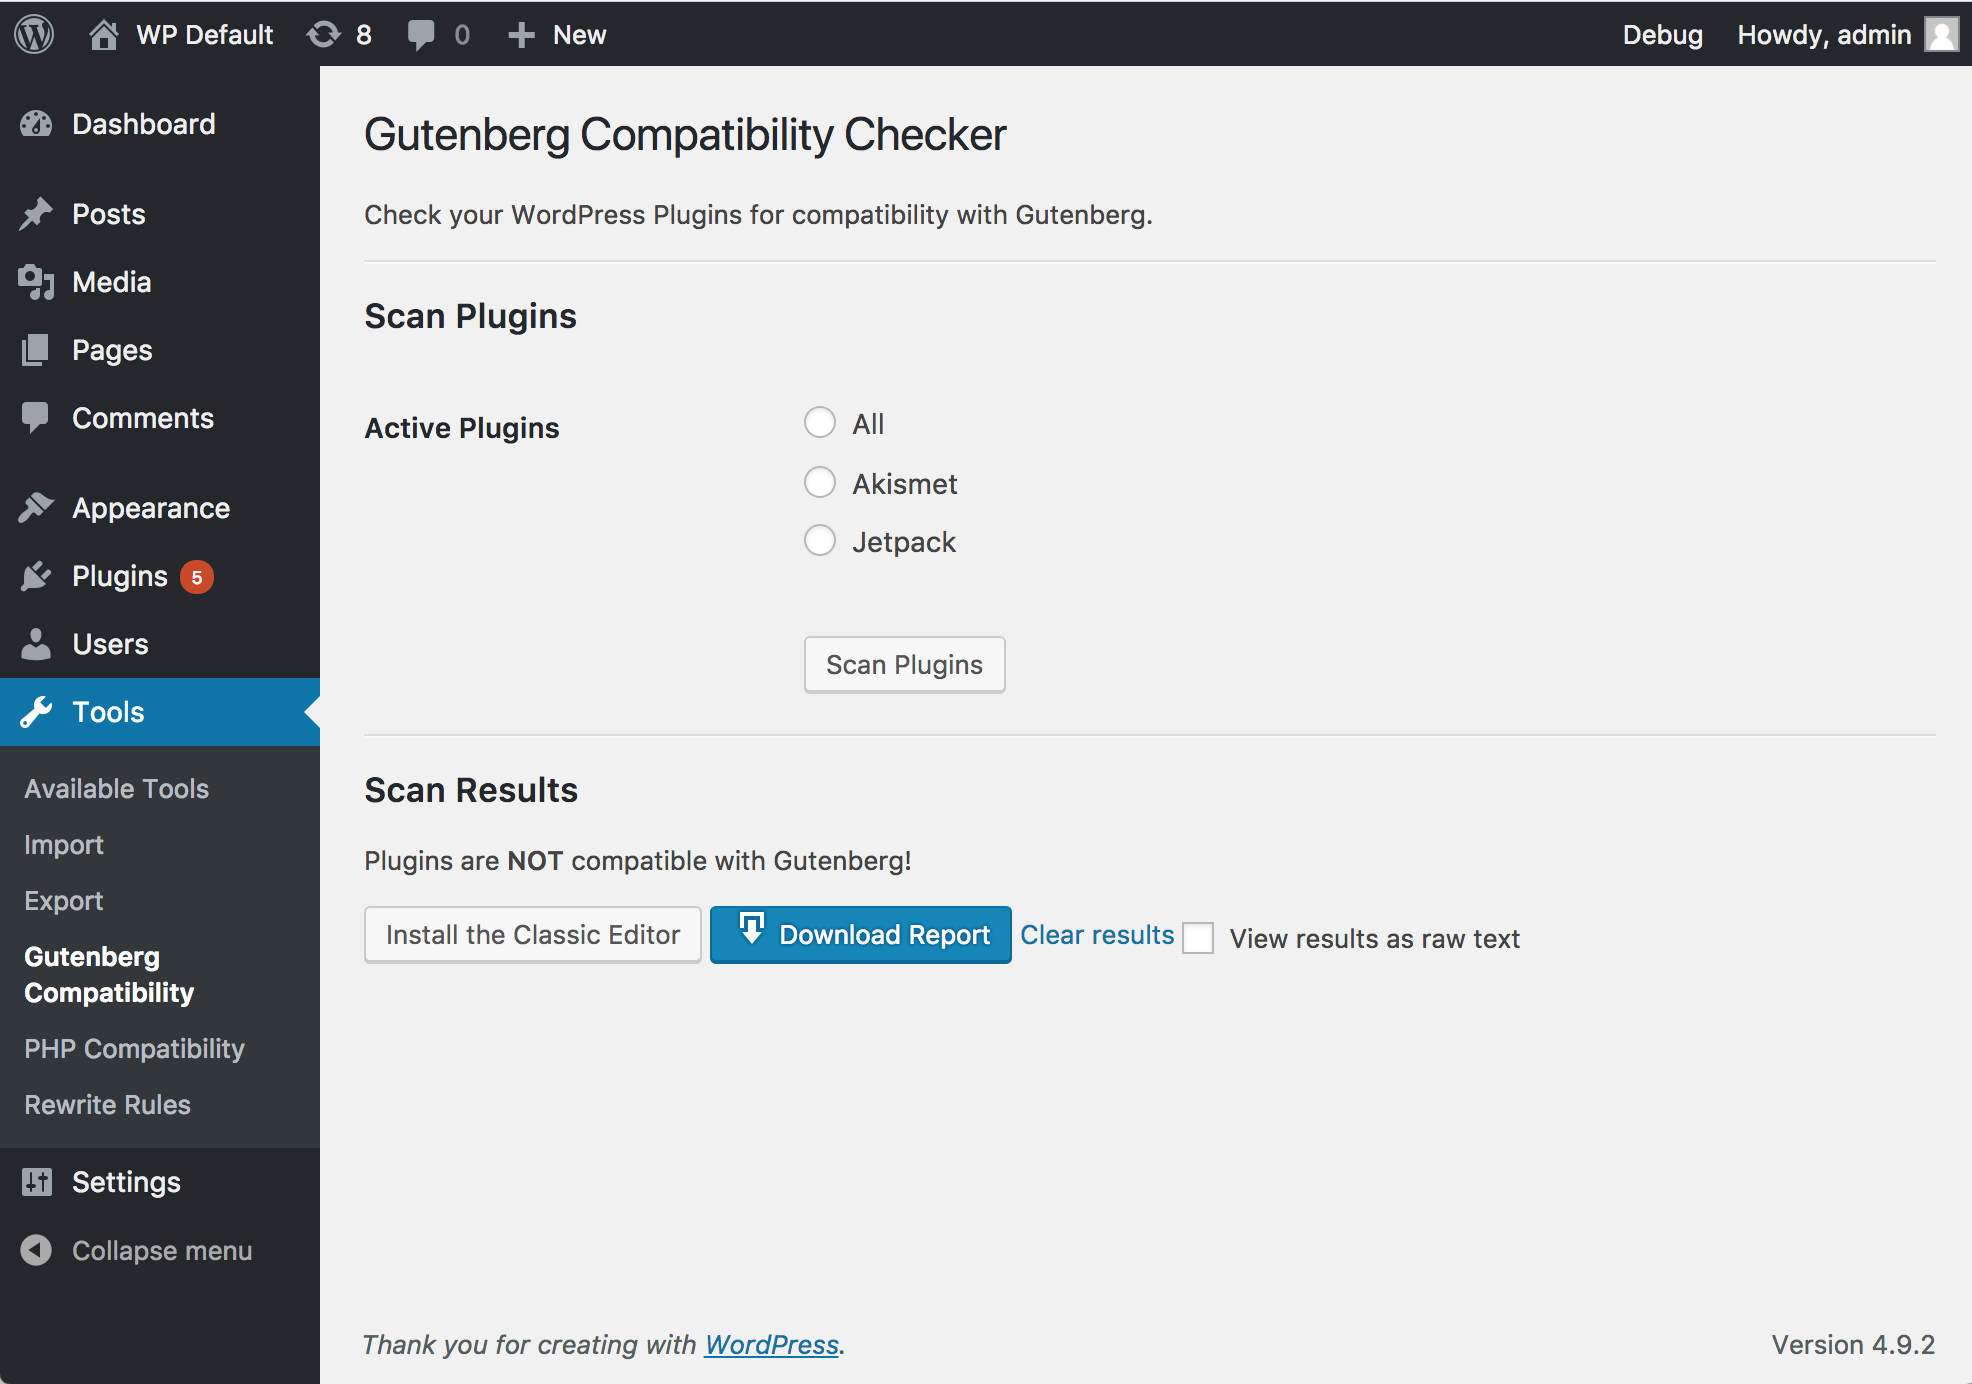
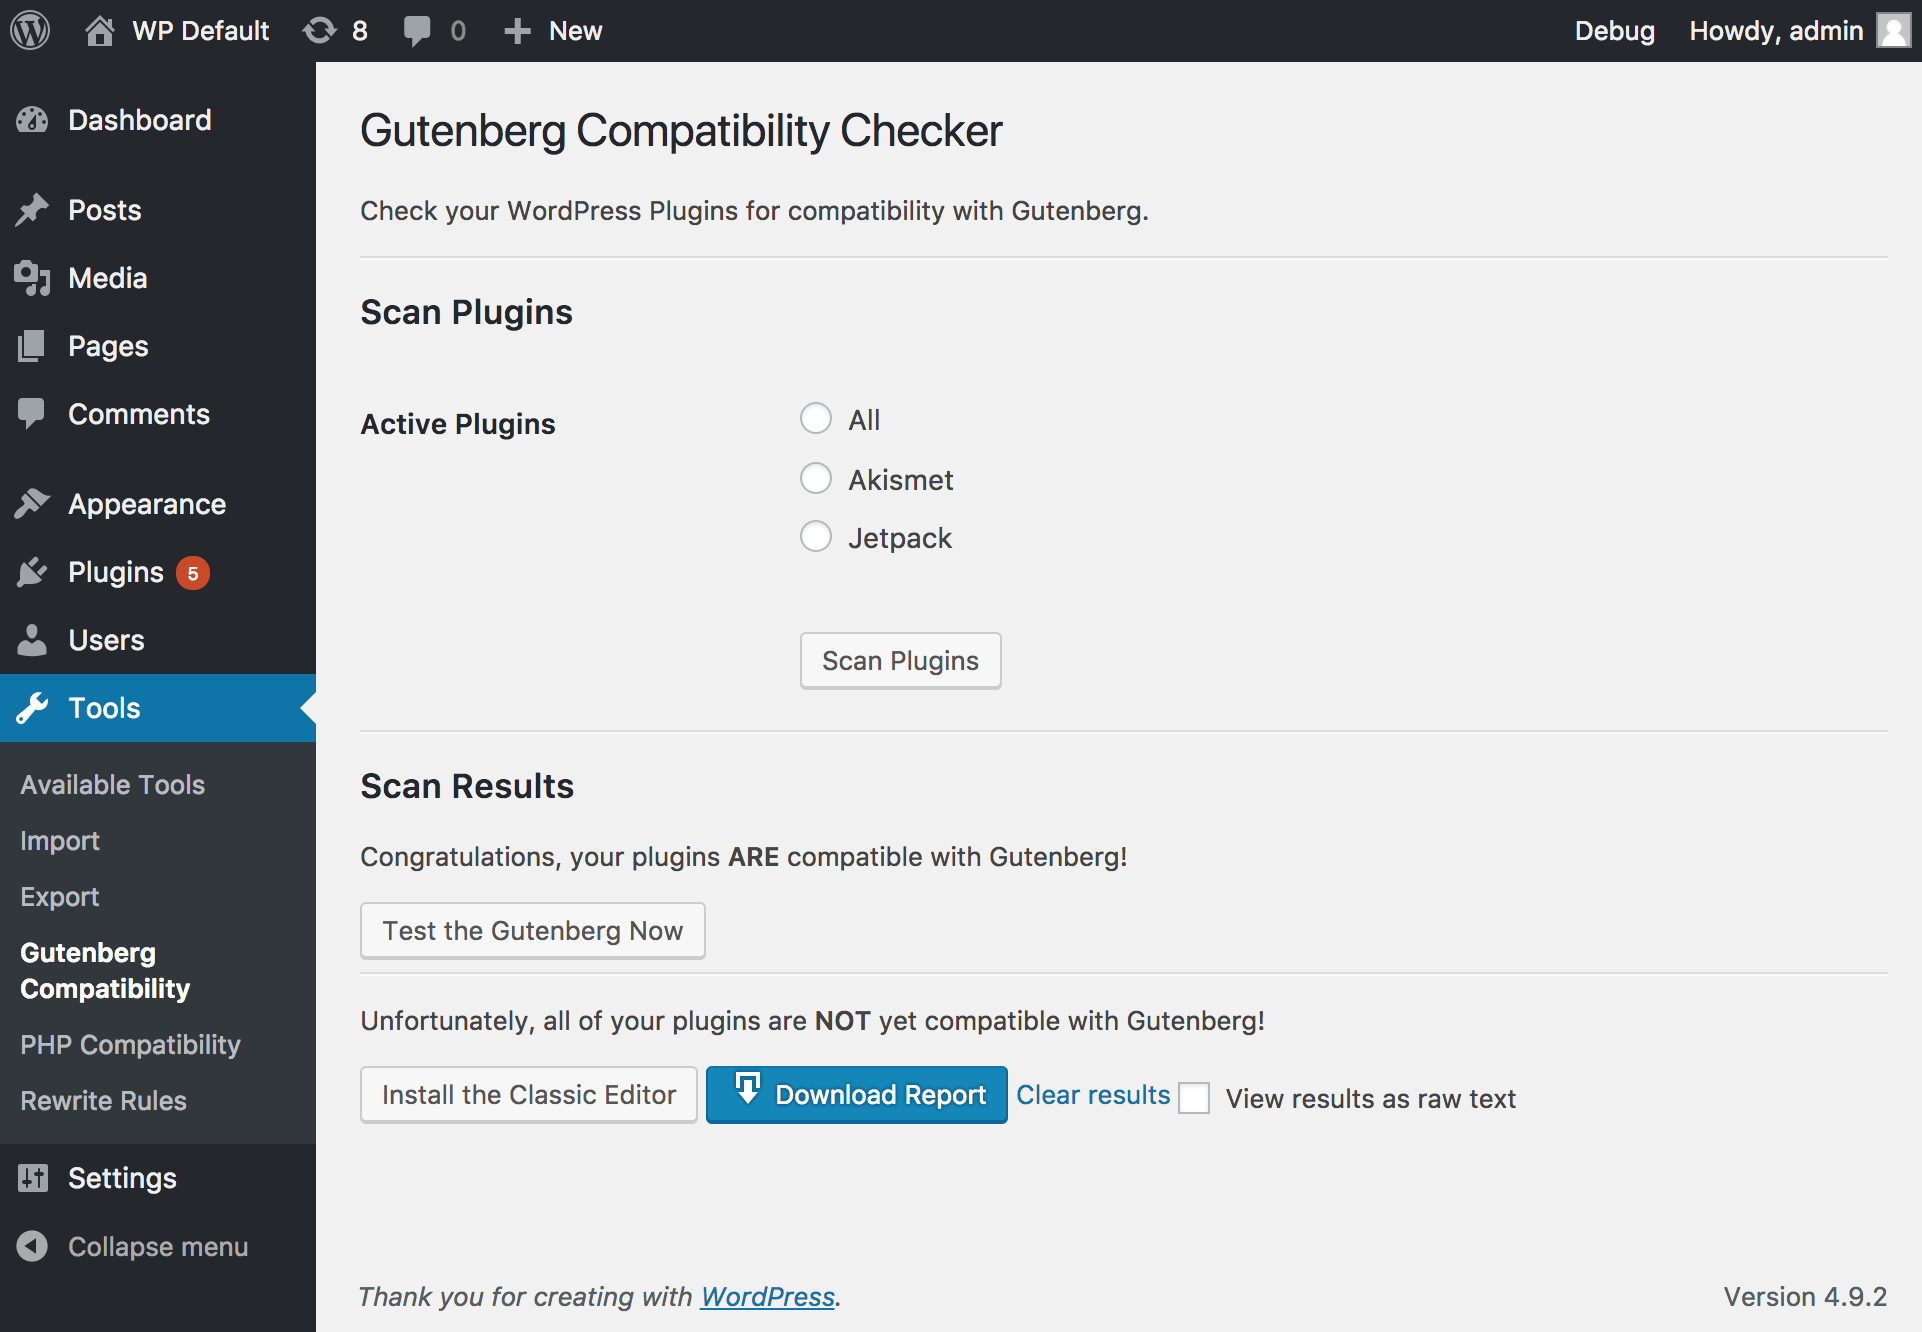
Screenshot update

diff --git a/gutenberg-compatibility-checker.php b/gutenberg-compatibility-checker.php
@@ -90,6 +90,7 @@ class WPEngine_GutenbergCompat {
 	 */
 	public function settings_page() {
 		$classic_editor_link = admin_url( 'plugin-install.php?s=classic-editor&tab=search&type=term' );
+		$gutenberg_link = admin_url( 'plugin-install.php?s=gutenberg&tab=search&type=term' );
 		$phpversions =  array(
 			'All' => 'All',
 			'Akismet' => 'akismet',
@@ -137,7 +138,15 @@ class WPEngine_GutenbergCompat {
 				<hr>
 				<h2>Scan Results</h2>
 
-				<p>Plugins are <b>NOT</b> compatible with Gutenberg!</p>
+				<p>Congratulations, your plugins <b>ARE</b> compatible with Gutenberg!</p>
+
+				<div class="wpe-pcc-download-report" style="display:block;">
+					<a href="<?php echo esc_url( $classic_editor_link ); ?>" class="button">Test the Gutenberg Now</a>
+					<br/>
+					<hr>
+				</div> <!-- /wpe-pcc-download-report -->
+
+				<p>Unfortunately, all of your plugins are <b>NOT</b> yet compatible with Gutenberg!</p>
 
 				<div class="wpe-pcc-download-report" style="display:block;">
 					<a href="<?php echo esc_url( $classic_editor_link ); ?>" class="button">Install the Classic Editor</a>
